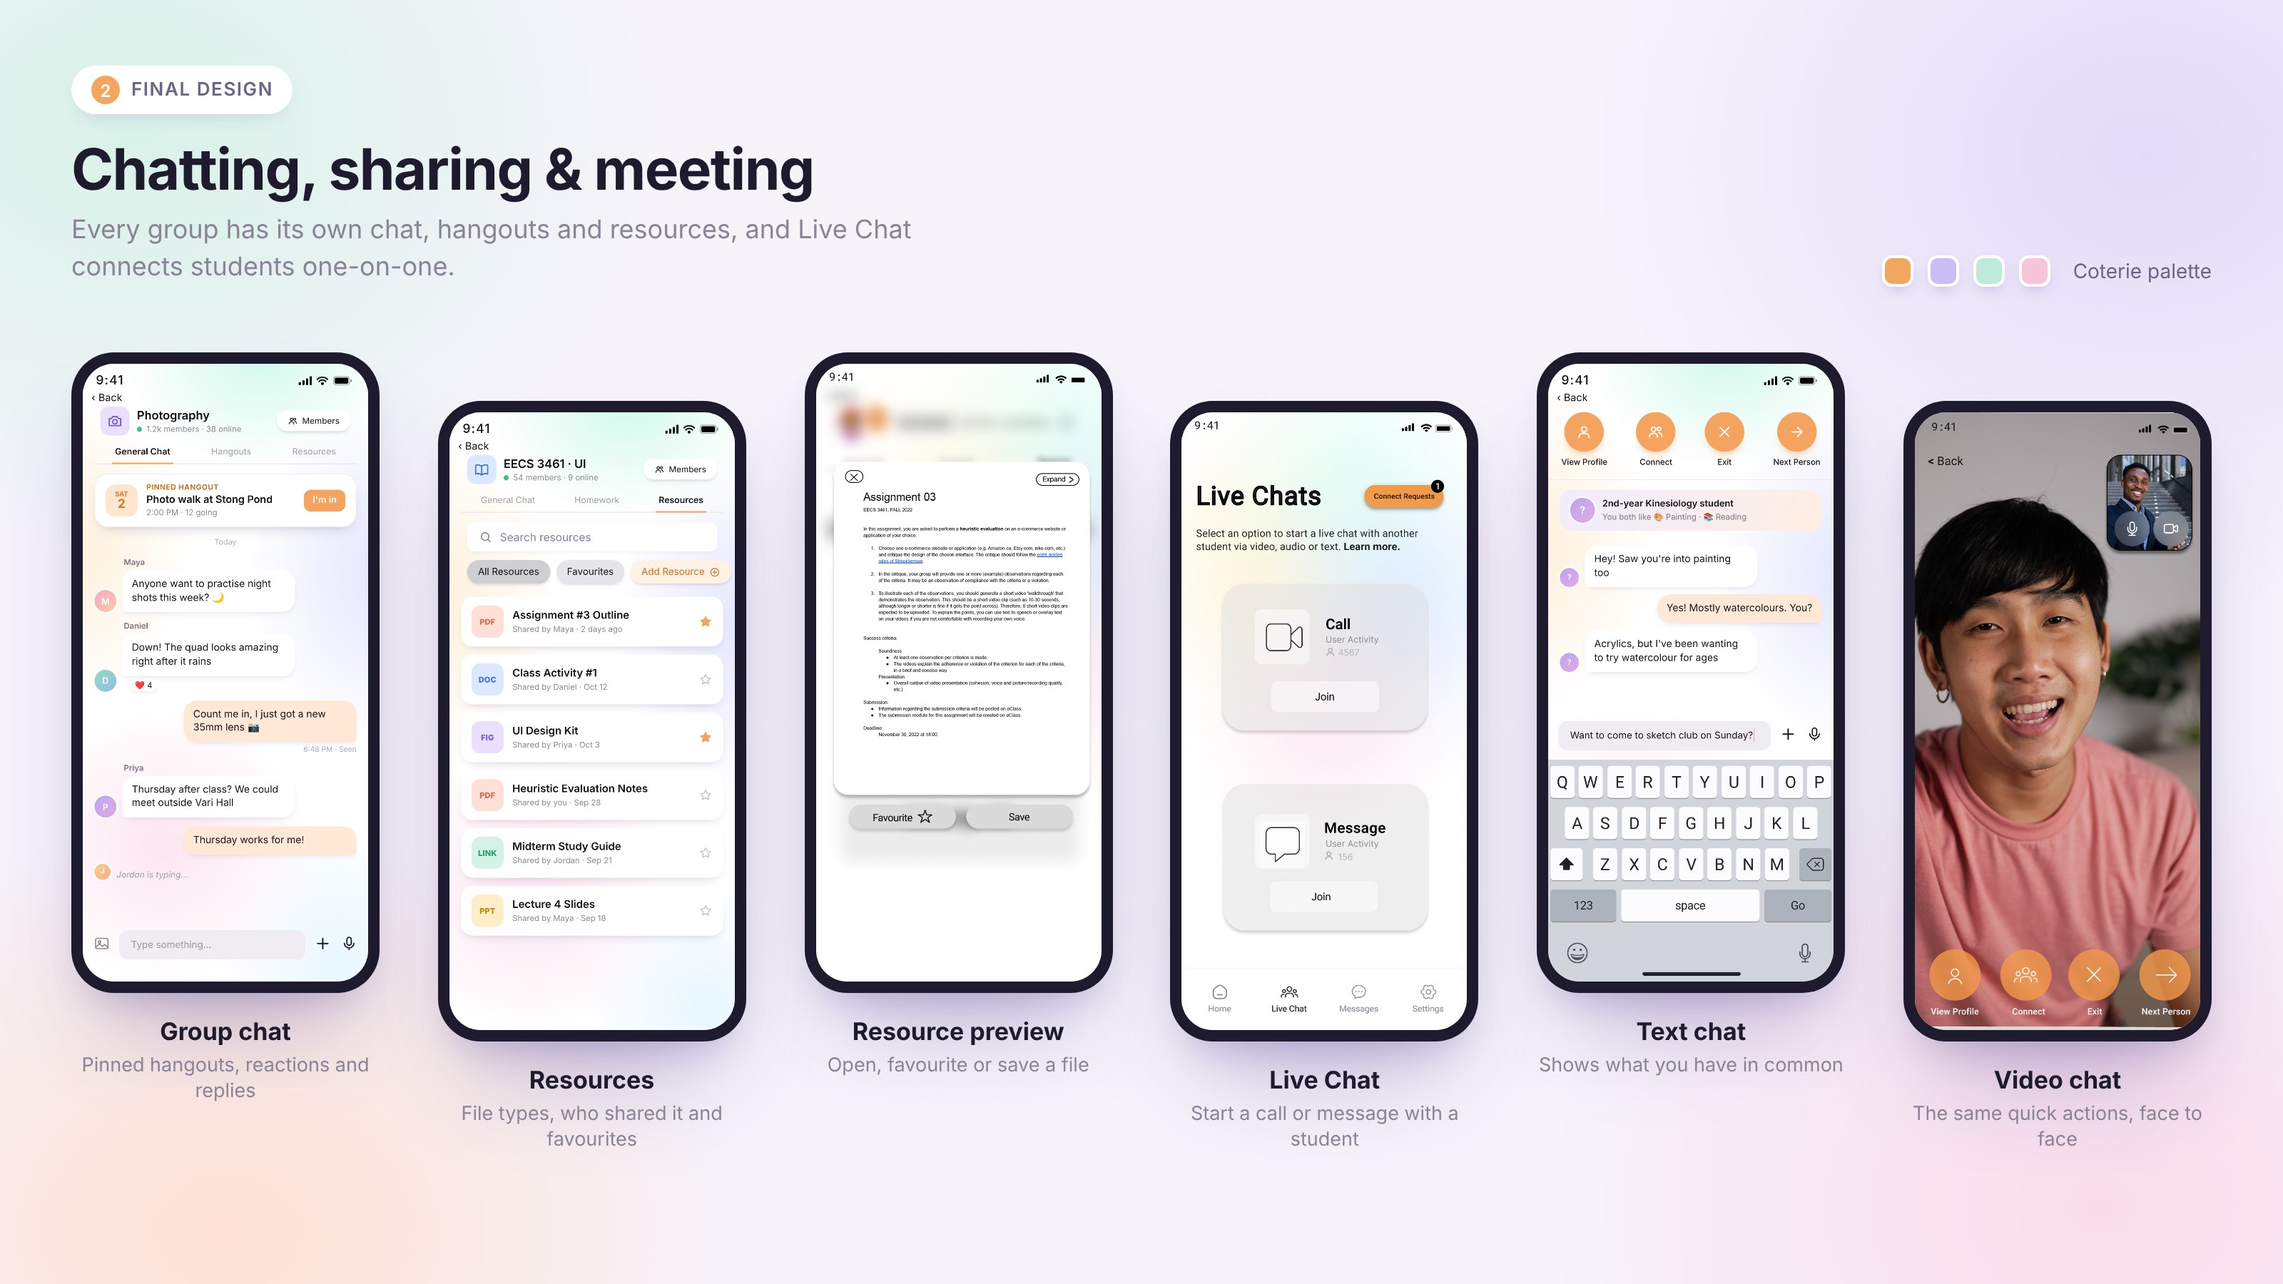
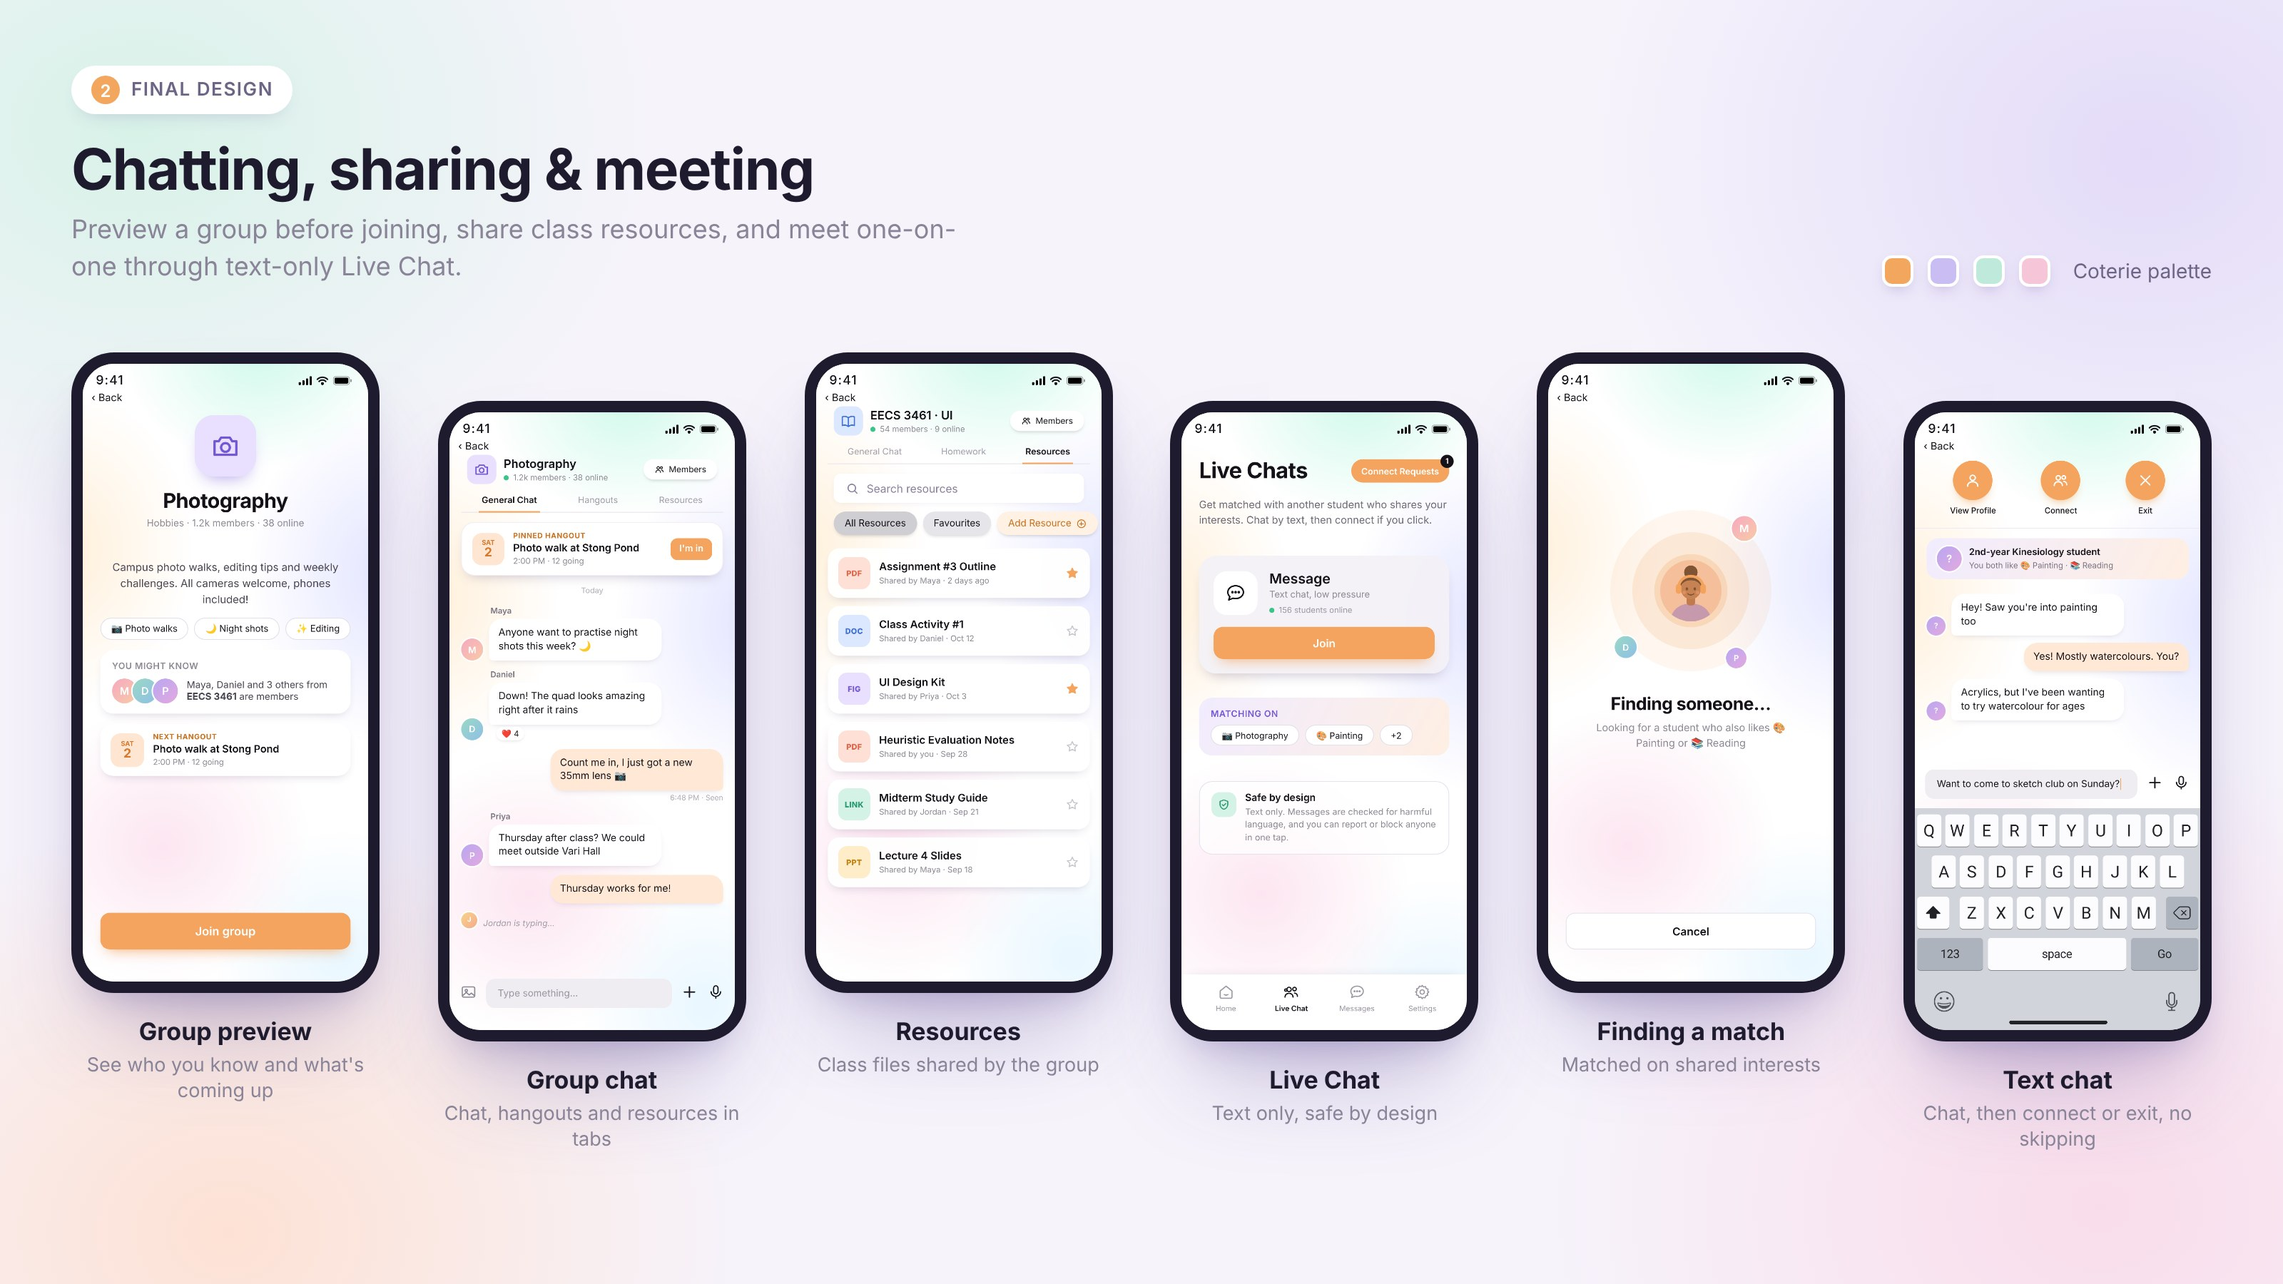
Coterie P2 updates

diff --git a/projects/coterie.html b/projects/coterie.html
@@ -1,0 +1,147 @@
+<!DOCTYPE html>
+<html lang="en">
+<head>
+  <meta charset="UTF-8">
+  <meta name="viewport" content="width=device-width, initial-scale=1.0">
+
+  <title>Coterie — Saraphtha</title>
+  <meta name="description" content="Coterie: a UX case study for an app that helps university students build friendships through interest-based group spaces.">
+
+  <link rel="preconnect" href="https://fonts.googleapis.com">
+  <link rel="preconnect" href="https://fonts.gstatic.com" crossorigin>
+  <link rel="stylesheet" href="https://fonts.googleapis.com/css2?family=Caveat+Brush&family=Patrick+Hand&display=swap">
+
+  <link rel="stylesheet" href="../style.css">
+  <script src="../gallery.js" defer></script>   <!-- NEW: makes the gallery work -->
+</head>
+<body class="project-page">
+
+  <!-- A little strip of the same sunset sky, with the kite as a way home -->
+  <header class="project-sky">
+    <a class="project-sky__back" href="../index.html#work">← Back to the hill</a>
+    <svg viewBox="0 0 1440 240" preserveAspectRatio="xMidYMax slice" aria-hidden="true">
+      <g stroke="#3B2340" stroke-width="2.2" stroke-linejoin="round" stroke-linecap="round">
+        <circle cx="1180" cy="190" r="60" fill="#FFE9AE"/>
+        <path d="M0 200 C 240 160 480 180 720 200 C 960 220 1200 170 1440 180 L1440 260 L0 260 Z" fill="#C893A8"/>
+        <path d="M0 228 C 300 210 700 236 1000 224 C 1200 216 1340 226 1440 222 L1440 260 L0 260 Z" fill="#98AE74"/>
+        <path d="M200 226 Q 620 200 863 158" fill="none" stroke="#FFFBF4" stroke-width="1.6"/>
+        <g transform="translate(-20 -130) rotate(12 900 210)">
+          <polygon points="900,150 940,210 900,210" fill="#E8604F"/>
+          <polygon points="900,150 860,210 900,210" fill="#F6C453"/>
+          <polygon points="860,210 900,290 900,210" fill="#E8604F"/>
+          <polygon points="940,210 900,290 900,210" fill="#F6C453"/>
+          <polygon points="900,150 940,210 900,290 860,210" fill="none"/>
+        </g>
+      </g>
+    </svg>
+  </header>
+
+  <main class="project">
+    <p class="eyebrow">ux case study · 2023</p>
+    <h1>Coterie</h1>
+    <p class="project__intro">An app concept that helps university students make friends through interest-based group spaces, designed for students finding their footing again after the return to in-person learning.</p>
+    
+    <p><a class="btn" href="https://www.figma.com/design/q6JBjKbPThuClvJpsBXUzG/Coterie-–-Prototype?node-id=0-1&p=f" target="_blank" rel="noopener">View the Figma prototype ↗</a></p>
+
+    <!-- Quick facts -->
+    <dl class="project__facts">
+      <div>
+        <dt>My role</dt>
+        <dd>UX/UI designer (solo project)</dd>
+      </div>
+      <div>
+        <dt>Tools</dt>
+        <dd>Figma, user surveys</dd>
+      </div>
+      <div>
+        <dt>Timeline</dt>
+        <dd>3 weeks</dd>
+      </div>
+    </dl>
+
+    <img class="project__image" src="../images/coterie-card-wide.jpg" alt="Coterie app screens showing interest-based group spaces">
+    
+    <h2>The challenge</h2>
+    <p>After two years of mostly online classes, many students felt anxious about returning to campus. Most of their recent social contact had been with family, and stepping back into a crowded university felt overwhelming.</p>
+    <p>At my university, making friends was already hard before the pandemic, because so many students commute and leave campus right after class. The pandemic made that gap wider. So I set out to answer two questions:</p>
+    <ul>
+      <li>What barriers are students facing in their transition back to in-person learning?</li>
+      <li>How is this affecting their social wellness?</li>
+    </ul>
+
+    <h2>Research</h2>
+    <p>I started by brainstorming what might be behind students' poor social wellness: what connects students to each other, what commuter culture is missing, and what it takes to build a community. Then I surveyed students to find out how they were really feeling.</p>
+    <img class="project__image" src="../images/coterie-survey.jpg" alt="Survey results: how difficult students find it to make friends in person">
+
+       <!-- CHANGED: now a proper quote, styled in style.css -->
+       <figure class="quote">
+        <blockquote>
+          <p>I want to join clubs and meet people with the same interests, but meetings feel intimidating when I don't know anyone.</p>
+        </blockquote>
+        <figcaption>— student survey response</figcaption>
+      </figure>
+
+    <h2>What I learned</h2>
+    <p>The surveys confirmed that students were struggling to reconnect after months of minimal social contact, and that commuting made it even harder. I turned the findings into a user profile capturing students' attributes, pain points, motivations and goals.</p>
+    <p>Their core needs came down to three things: an online space to meet new people, a way to share their hobbies, and an easy way to find people like them.</p>
+    <img class="project__image" src="../images/coterie-persona.jpg" alt="User profile showing a student's attributes, pain points, motivations and goals">
+
+    <h2>Designing Coterie</h2>
+    <p>Based on the survey data, I built a user flow and a low-fidelity prototype. My first idea was a matching system: students would like each other's profiles, and a mutual like would unlock a chat.</p>
+    <!-- CHANGED: alt text now describes the first version -->
+    <img class="project__image" src="../images/coterie-wireframes1.jpg" alt="Low-fidelity wireframes of the first Coterie flow, built around liking profiles">
+    
+    <p>When I evaluated it, I realised it had a big problem. Matching encouraged students to judge each other on a profile alone, which was the opposite of the judgment-free space I wanted to create. So I redesigned the flow around group spaces instead, where students can join conversations comfortably without being "picked."</p>
+    <img class="project__image" src="../images/coterie-wireframes-v2.jpg" alt="Low-fidelity wireframes of the redesigned Coterie flow">
+
+    <!-- NEW: how the wireframes changed in the final design -->
+    <p>This version also added Live Chat, for students who would rather start with one person than a whole group. Unlike my first idea, no one browses or likes profiles: students are paired on an interest they share. But Live Chat offered both a video call and a text chat, and looking at it again with the same question in mind, "would this make someone feel judged?", led to three changes in the final design:</p>
+    <ul>
+      <li><strong>Text only, no video.</strong> Live video can't be monitored as it happens, so there would be no way to step in if someone was harassed, and being seen on camera by a stranger is exactly the kind of judgment Coterie set out to avoid. Text chats can be checked for harmful language and bullying, and anyone can be reported or blocked in one tap.</li>
+      <li><strong>No skipping people.</strong> A "Next Person" button would let students skip someone mid-conversation, which feels like rejection. Instead, a chat simply ends with Exit, and either person can choose to Connect.</li>
+      <li><strong>You choose who can reach you.</strong> People you meet in Live Chat land in Requests first, and only the ones you accept can message you.</li>
+    </ul>
+    <!-- END NEW -->
+
+    <h2>The design</h2>
+    <!-- CHANGED: ending reworded so it doesn't contradict Live Chat -->
+    <p>The final design organises Coterie into categories of groups that anyone can join freely. Students can connect with classmates in their courses, explore hobbies they love, and discover new communities, all without the pressure of being picked.</p>
+    
+        <!-- NEW: 3-photo gallery -->
+        <!-- CHANGED: captions match the slides and alt text is filled in -->
+        <div class="gallery" role="region" aria-roledescription="carousel" aria-label="Final Coterie designs">
+          <div class="gallery__track" tabindex="0" aria-label="Use the left and right arrow keys to browse">
+            <figure class="gallery__slide">
+              <img class="gallery__image" src="../images/coterie-final-groups.jpg" alt="Six Coterie screens: login, picking interests, suggested groups, the home page with course and general groups, course groups, and creating a group">
+              <figcaption>Getting in and finding your groups</figcaption>
+            </figure>
+            <figure class="gallery__slide">
+              <img class="gallery__image" src="../images/coterie-final-chat.jpg" alt="Six Coterie screens: a group preview, a group chat, shared class resources, Live Chat, finding a match, and a text chat with another student">
+              <figcaption>Chatting, sharing and meeting</figcaption>
+            </figure>
+            <figure class="gallery__slide">
+              <img class="gallery__image" src="../images/coterie-final-connected.jpg" alt="Three Coterie screens: the messages inbox, connect requests to accept or decline, and profile and privacy settings">
+              <figcaption>Staying connected</figcaption>
+            </figure>
+          </div>
+          <div class="gallery__controls">
+            <button class="gallery__btn gallery__prev" type="button" aria-label="Previous image">←</button>
+            <div class="gallery__dots"></div>
+            <button class="gallery__btn gallery__next" type="button" aria-label="Next image">→</button>
+          </div>
+        </div>
+    
+
+
+    <h2>Reflection</h2>
+    <p>Coterie was my first time doing user interviews, and it changed how I think about design. Hearing students describe, in their own words, how lonely and intimidating campus felt made the problem real in a way no brainstorm could. It taught me to listen first and let what people actually say shape the solution, rather than starting with an idea and looking for proof.</p>
+    <p>The biggest lesson came from letting go of my first concept. The matching system seemed like an obvious way to connect people, but it worked against the very thing students needed: a space where they wouldn't feel judged. Seeing that taught me that a feature can be clever and still be wrong for the people using it. I used the same test when I cut video chat: it would have been easy to keep, but it couldn't keep students safe.</p> <!-- CHANGED: last sentence added -->
+    <p>It was also the first time I got to design something that could genuinely be useful to people, and that's what has stayed with me most. If I took Coterie further, my next step would be usability testing with students to see how comfortable the group spaces really feel, and what would make someone take that first step to join.</p>
+
+    <nav class="project__next" aria-label="More projects">
+      <a class="btn" href="../index.html#work">← All work</a>
+      <a class="btn" href="project-three.html">Next project →</a>
+    </nav>
+  </main>
+</body>
+</html>

diff --git a/projects/project-two.html b/projects/project-two.html
@@ -41,7 +41,7 @@
     <h1>Coterie</h1>
     <p class="project__intro">An app concept that helps university students make friends through interest-based group spaces, designed for students finding their footing again after the return to in-person learning.</p>
     
-    <p><a class="btn" href="ADD FIGMA LINK HERE" target="_blank" rel="noopener">View the Figma prototype ↗</a></p>
+    <p><a class="btn" href="https://www.figma.com/design/q6JBjKbPThuClvJpsBXUzG/Coterie-–-Prototype?node-id=0-1&p=f" target="_blank" rel="noopener">View the Figma prototype ↗</a></p>
 
     <!-- Quick facts -->
     <dl class="project__facts">
@@ -59,7 +59,7 @@
       </div>
     </dl>
 
-    <img class="project__image" src="../images/coterie-home.jpg" alt="Coterie app screens showing interest-based group spaces">
+    <img class="project__image" src="../images/coterie-card-wide.jpg" alt="Coterie app screens showing interest-based group spaces">
     
     <h2>The challenge</h2>
     <p>After two years of mostly online classes, many students felt anxious about returning to campus. Most of their recent social contact had been with family, and stepping back into a crowded university felt overwhelming.</p>
@@ -93,6 +93,15 @@
     <p>When I evaluated it, I realised it had a big problem. Matching encouraged students to judge each other on a profile alone, which was the opposite of the judgment-free space I wanted to create. So I redesigned the flow around group spaces instead, where students can join conversations comfortably without being "picked."</p>
     <img class="project__image" src="../images/coterie-wireframes-v2.jpg" alt="Low-fidelity wireframes of the redesigned Coterie flow">
 
+    <!-- NEW: how the wireframes changed in the final design -->
+    <p>This version also added Live Chat, for students who would rather start with one person than a whole group. Unlike my first idea, no one browses or likes profiles: students are paired on an interest they share. But Live Chat offered both a video call and a text chat, and looking at it again with the same question in mind, "would this make someone feel judged?", led to three changes in the final design:</p>
+    <ul>
+      <li><strong>Text only, no video.</strong> Live video can't be monitored as it happens, so there would be no way to step in if someone was harassed, and being seen on camera by a stranger is exactly the kind of judgment Coterie set out to avoid. Text chats can be checked for harmful language and bullying, and anyone can be reported or blocked in one tap.</li>
+      <li><strong>No skipping people.</strong> A "Next Person" button would let students skip someone mid-conversation, which feels like rejection. Instead, a chat simply ends with Exit, and either person can choose to Connect.</li>
+      <li><strong>You choose who can reach you.</strong> People you meet in Live Chat land in Requests first, and only the ones you accept can message you.</li>
+    </ul>
+    <!-- END NEW -->
+     
     <h2>The design</h2>
     <p>The final design organises Coterie into categories of groups that anyone can join freely. Students can connect with classmates in their courses, explore hobbies they love, and discover new communities, all without the pressure of a one-on-one match.</p>
     

diff --git a/index.html b/index.html
@@ -279,22 +279,21 @@
         <p class="eyebrow">among the stars · chapter three</p>
         <h2>How I work</h2>
                 <!-- NEW: short intro line -->
-                <p>Whether I'm designing an app or untangling a business process, I follow the same three steps.</p>
+                <p>I think people are interesting, and whatever they’ve built, whether it’s an app, a process, or a business, carries a piece of them. My job is to find that story and help it come through. Whether I’m designing an app or untangling a business process, I follow the same three steps.</p>
                 <ol class="steps">
                   <li>
                     <span class="steps__num">1</span>
-                    <span class="steps__title">Listen first</span>                     <!-- NEW: step title -->
-                    I start by understanding what people actually need, through questions, interviews, and a lot of listening.
-                  </li>
+                    <span class="steps__title">Listen for the story</span>                     <!-- NEW: step title -->
+                    I start by understanding who people are and what they actually need, through questions, interviews, and a lot of listening.
                   <li>
                     <span class="steps__num">2</span>
-                    <span class="steps__title">Figure out how it works</span>
-                    I map out the problem, challenge assumptions, and look at it from more than one perspective.
+                    <span class="steps__title">Understand what’s underneath</span>
+                    I map out how things really work and why they were built that way, challenge assumptions, and look at it from more than one perspective.
                   </li>
                   <li>
                     <span class="steps__num">3</span>
-                    <span class="steps__title">Make it work better</span>
-                    I sketch, build, test, and refine, and I'm happy to let go of an idea if it isn't right for the people using it.
+                    <span class="steps__title">Help it shine</span>
+                    I sketch, build, test, and refine, and I’m happy to let go of an idea if it doesn’t do justice to the people using it.
                   </li>
                 </ol>
       </div>
